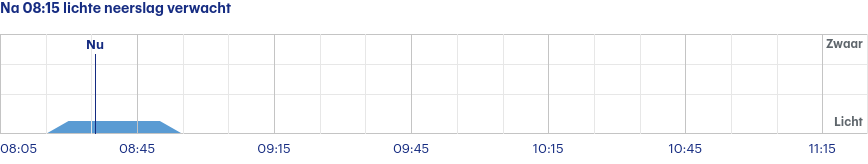
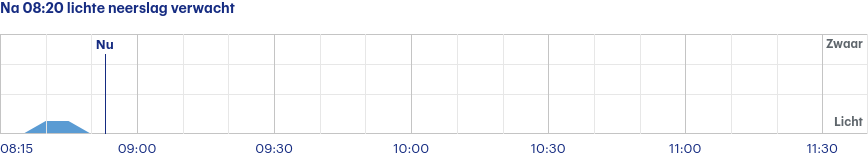
Latest scraping buienradar: Thu Aug  3 06:40:24 UTC 2023

diff --git a/scrapes/buienradar/buienradar-jette-3-uur.md b/scrapes/buienradar/buienradar-jette-3-uur.md
@@ -1,4 +1,4 @@
-Na 08:15 lichte neerslag verwacht
+Na 08:20 lichte neerslag verwacht
 
 ![](buienradar-jette-3-uur.png)
 
